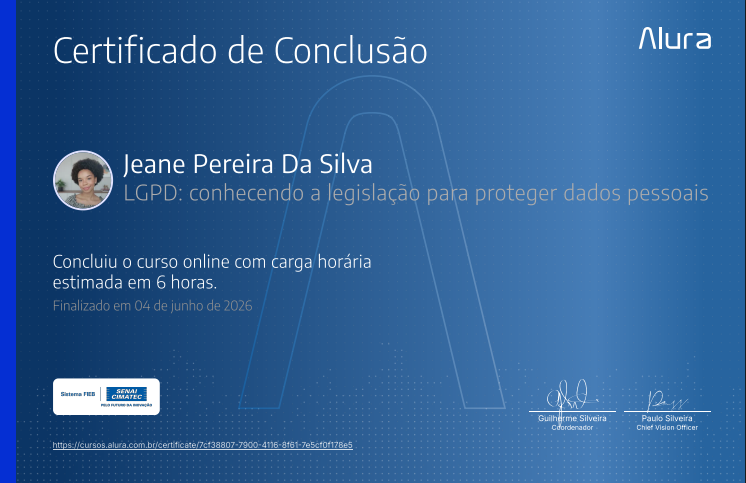
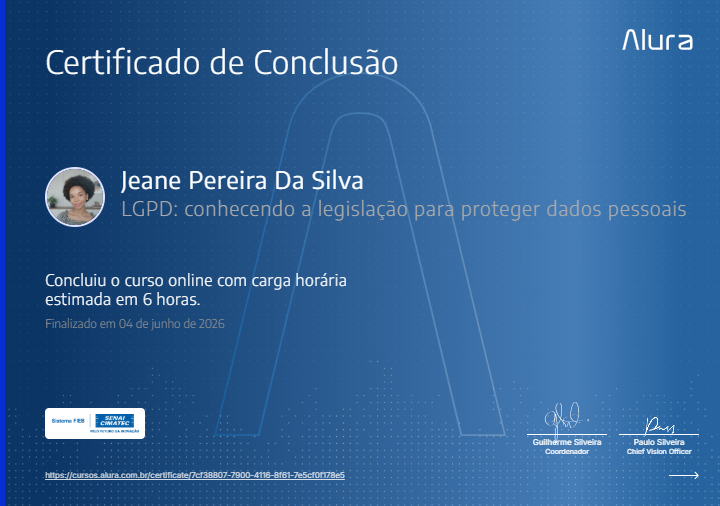
Adicionando novo link na seção certificados

diff --git a/src/app/pages/certificados/certificados.component.css b/src/app/pages/certificados/certificados.component.css
@@ -10,12 +10,32 @@
   font-family: var(--font-mono);
   font-size: var(--text-body-md);
   color: var(--color-on-surface-variant);
-  margin: 0 0 40px;
+  margin: 0 0 12px;
 }
 
 .certificates__hint-icon {
   font-size: 18px;
   color: var(--color-primary-fixed-dim);
+}
+
+.certificates__linkedin {
+  display: flex;
+  align-items: center;
+  gap: 8px;
+  font-family: var(--font-mono);
+  font-size: var(--text-body-md);
+  margin: 0 0 40px;
+}
+
+.certificates__linkedin-link {
+  color: var(--color-primary);
+  text-decoration: none;
+  border-bottom: 1px solid transparent;
+  transition: border-color 0.3s ease, color 0.3s ease;
+}
+
+.certificates__linkedin-link:hover {
+  border-bottom-color: var(--color-primary);
 }
 
 .certificates__track-wrapper {

diff --git a/src/app/pages/certificados/certificados.component.html b/src/app/pages/certificados/certificados.component.html
@@ -9,6 +9,18 @@
     Clique no certificado para vê-lo melhor
   </p>
 
+  <p class="certificates__linkedin">
+    <span class="material-symbols-outlined certificates__hint-icon">open_in_new</span>
+    <a
+      class="certificates__linkedin-link"
+      href="https://www.linkedin.com/in/jeane-silva-89b73a3b5/details/certifications/"
+      target="_blank"
+      rel="noopener noreferrer"
+    >
+      Acesse no LinkedIn
+    </a>
+  </p>
+
   <div class="certificates__track-wrapper">
     <div class="certificates__track">
 
